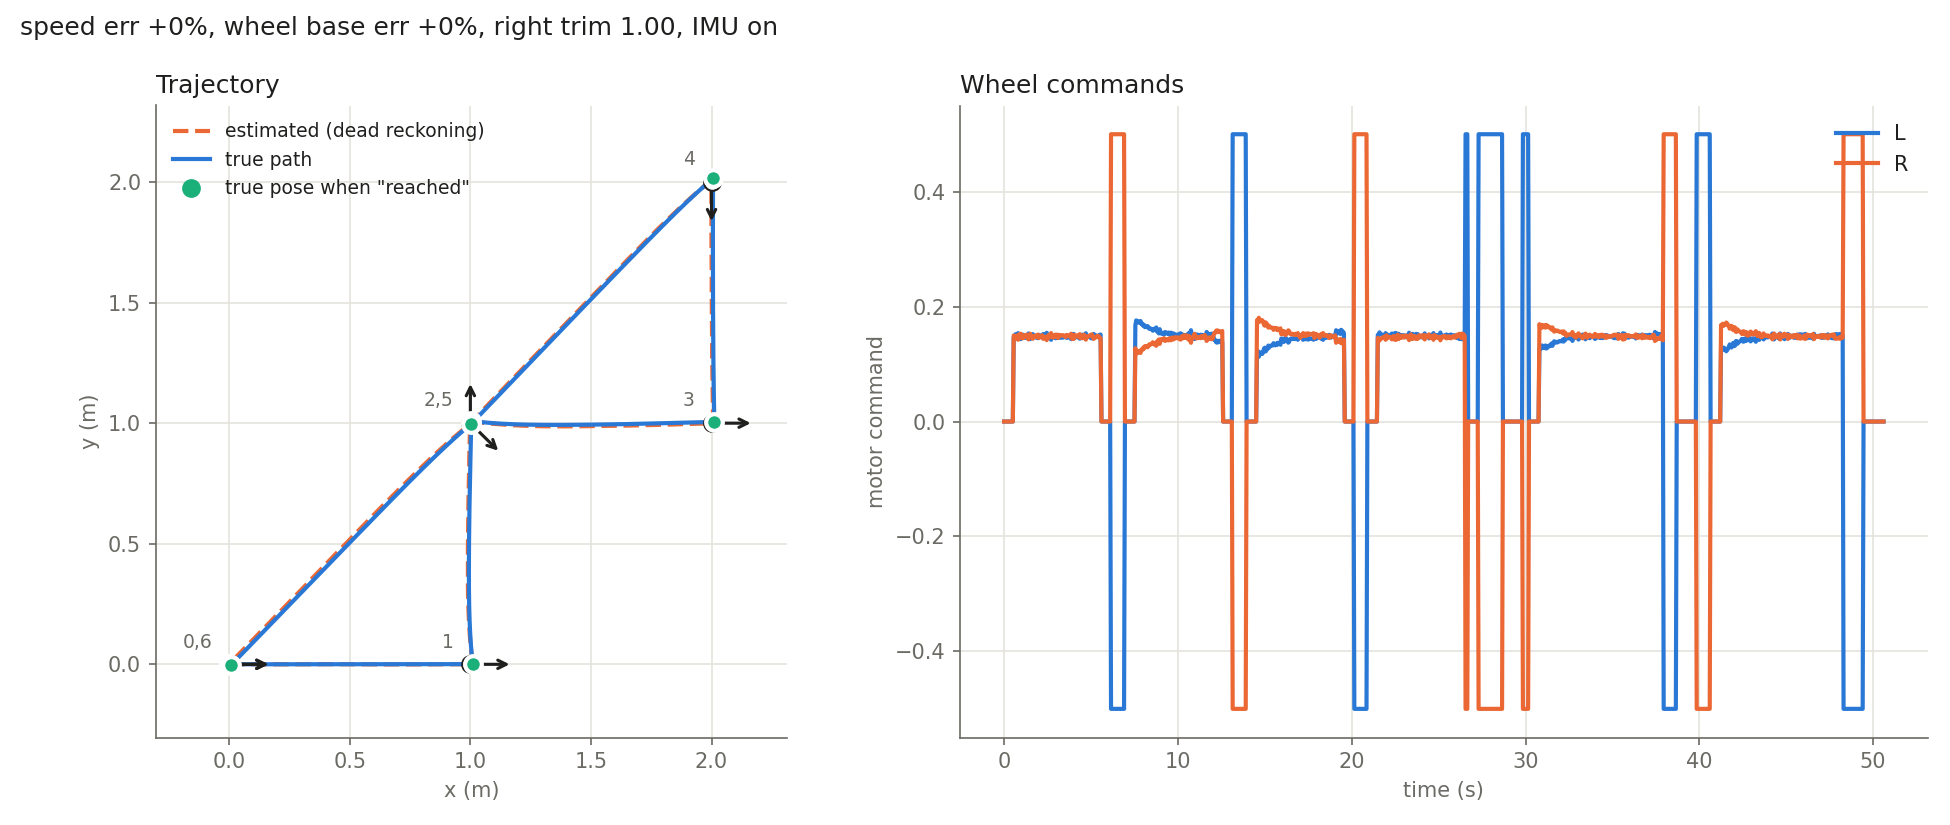
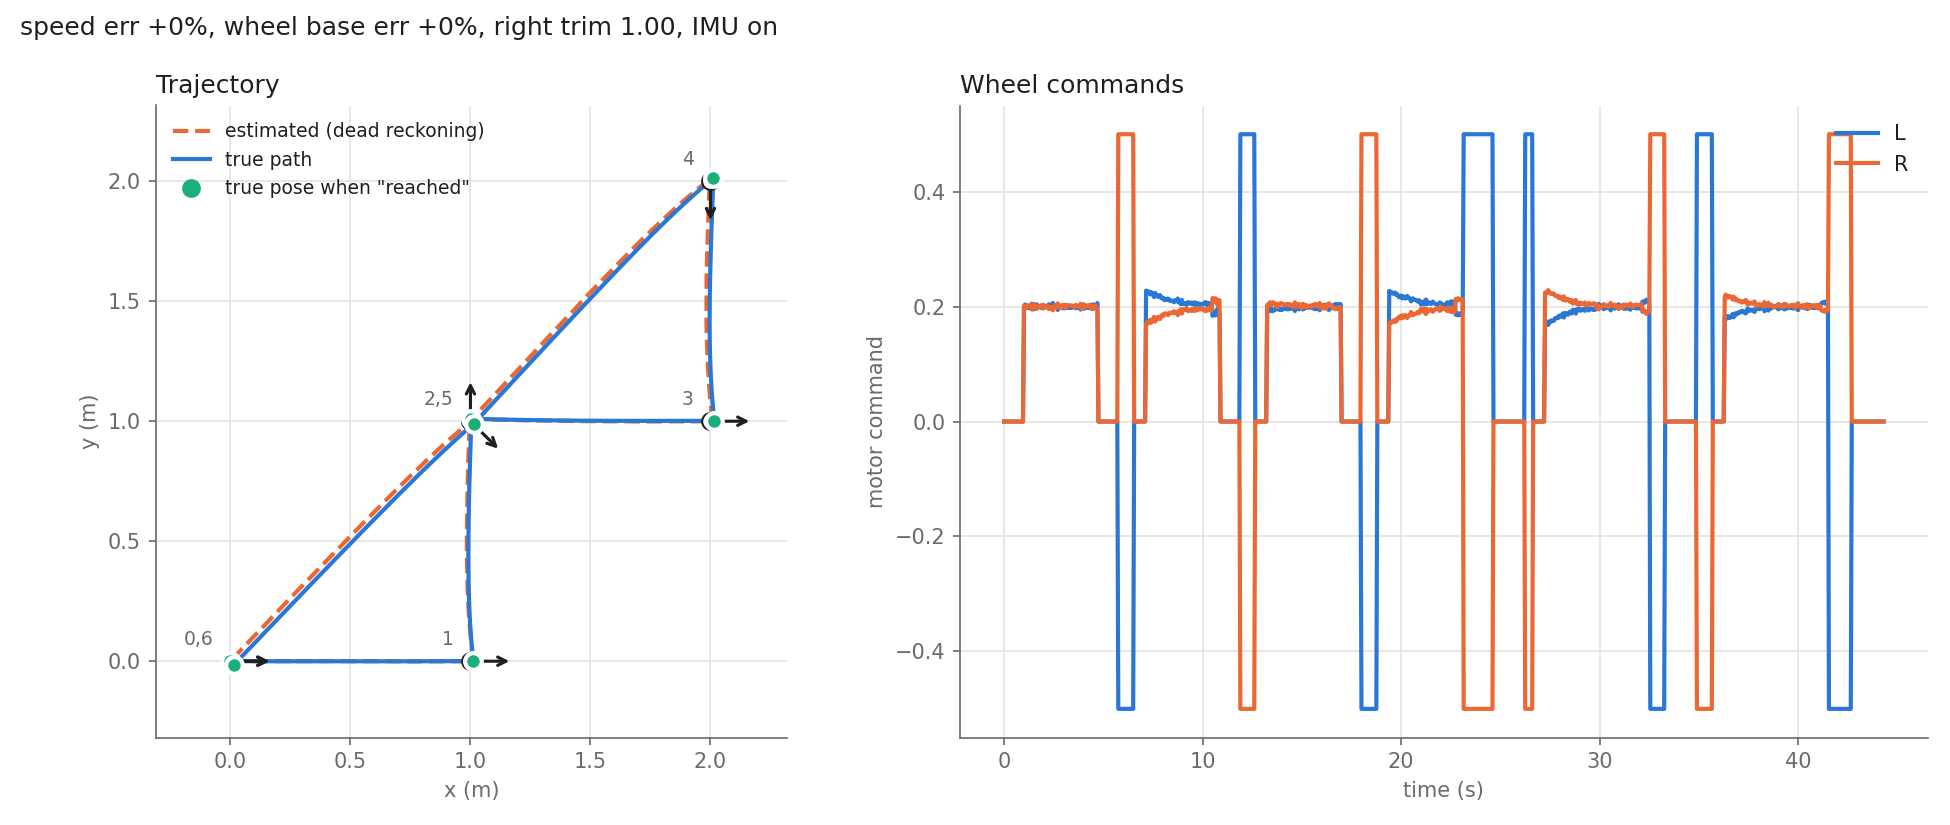
Update the min_v

diff --git a/robot_control/robot_control/waypoint_controller.py b/robot_control/robot_control/waypoint_controller.py
@@ -121,11 +121,12 @@ class PoseEstimator:
 
 @dataclass
 class ControllerParams:
-    max_v: float = 0.2          # m/s, cruise speed
-    # Slowest speed while approaching a waypoint. Kept at max_v: lower commands sit near the
-    # 0.07 deadband where the robot moves slower than the linear model predicts, so it
-    # stopped short. The 0.18 s actuation delay cancels out (late start, late stop).
-    min_v: float = 0.2
+    max_v: float = 0.27         # m/s, cruise speed (cmd 0.2, where speed was calibrated)
+    # Slowest speed while approaching a waypoint. Kept at max_v: slowing down toward the
+    # 0.07 deadband made the robot crawl with one wheel stalled. A constant speed keeps the
+    # commands in the calibrated range (0.15-0.3), and the 0.18 s actuation delay cancels
+    # out (late start, late stop).
+    min_v: float = 0.27
     # Limits steering while driving so both wheels keep turning forward; a reversed wheel at
     # low command is a slow in-place turn, which stalls on our floor.
     max_curvature: float = 1.5  # 1/m
